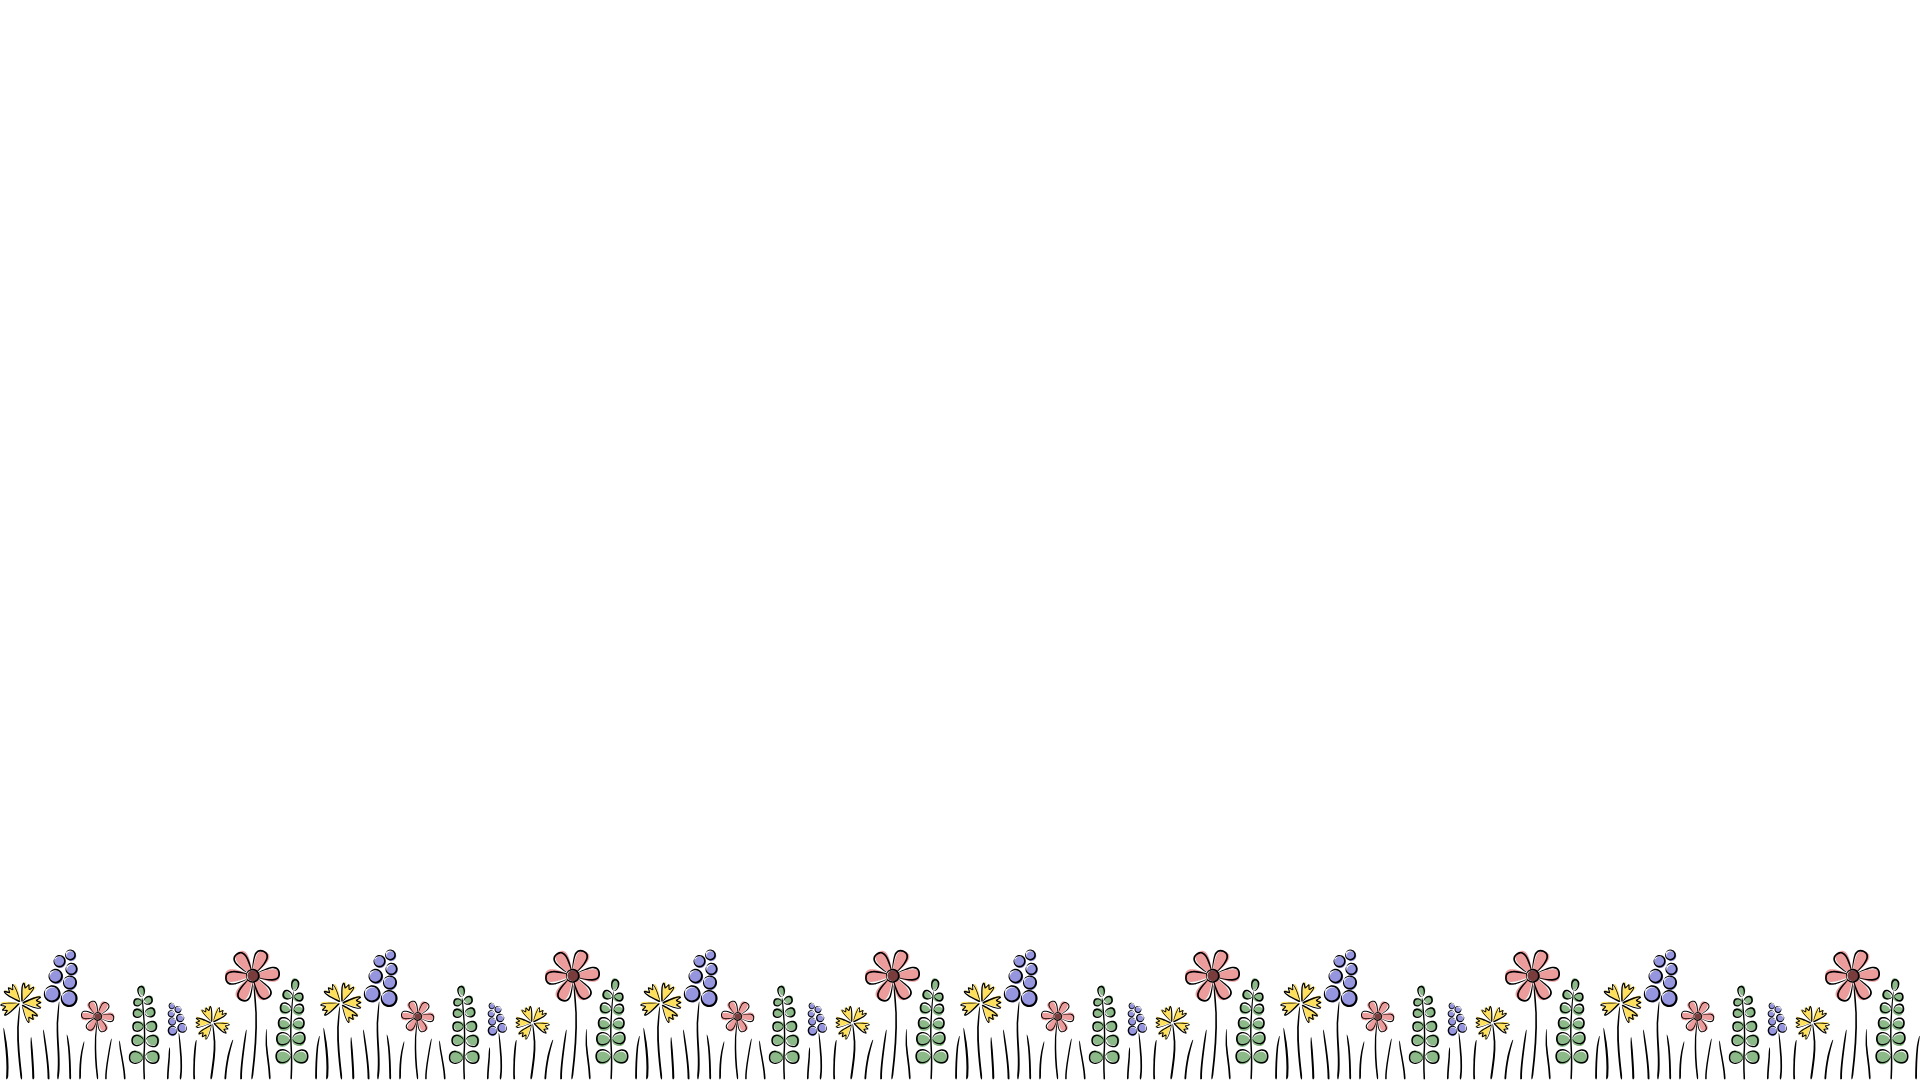
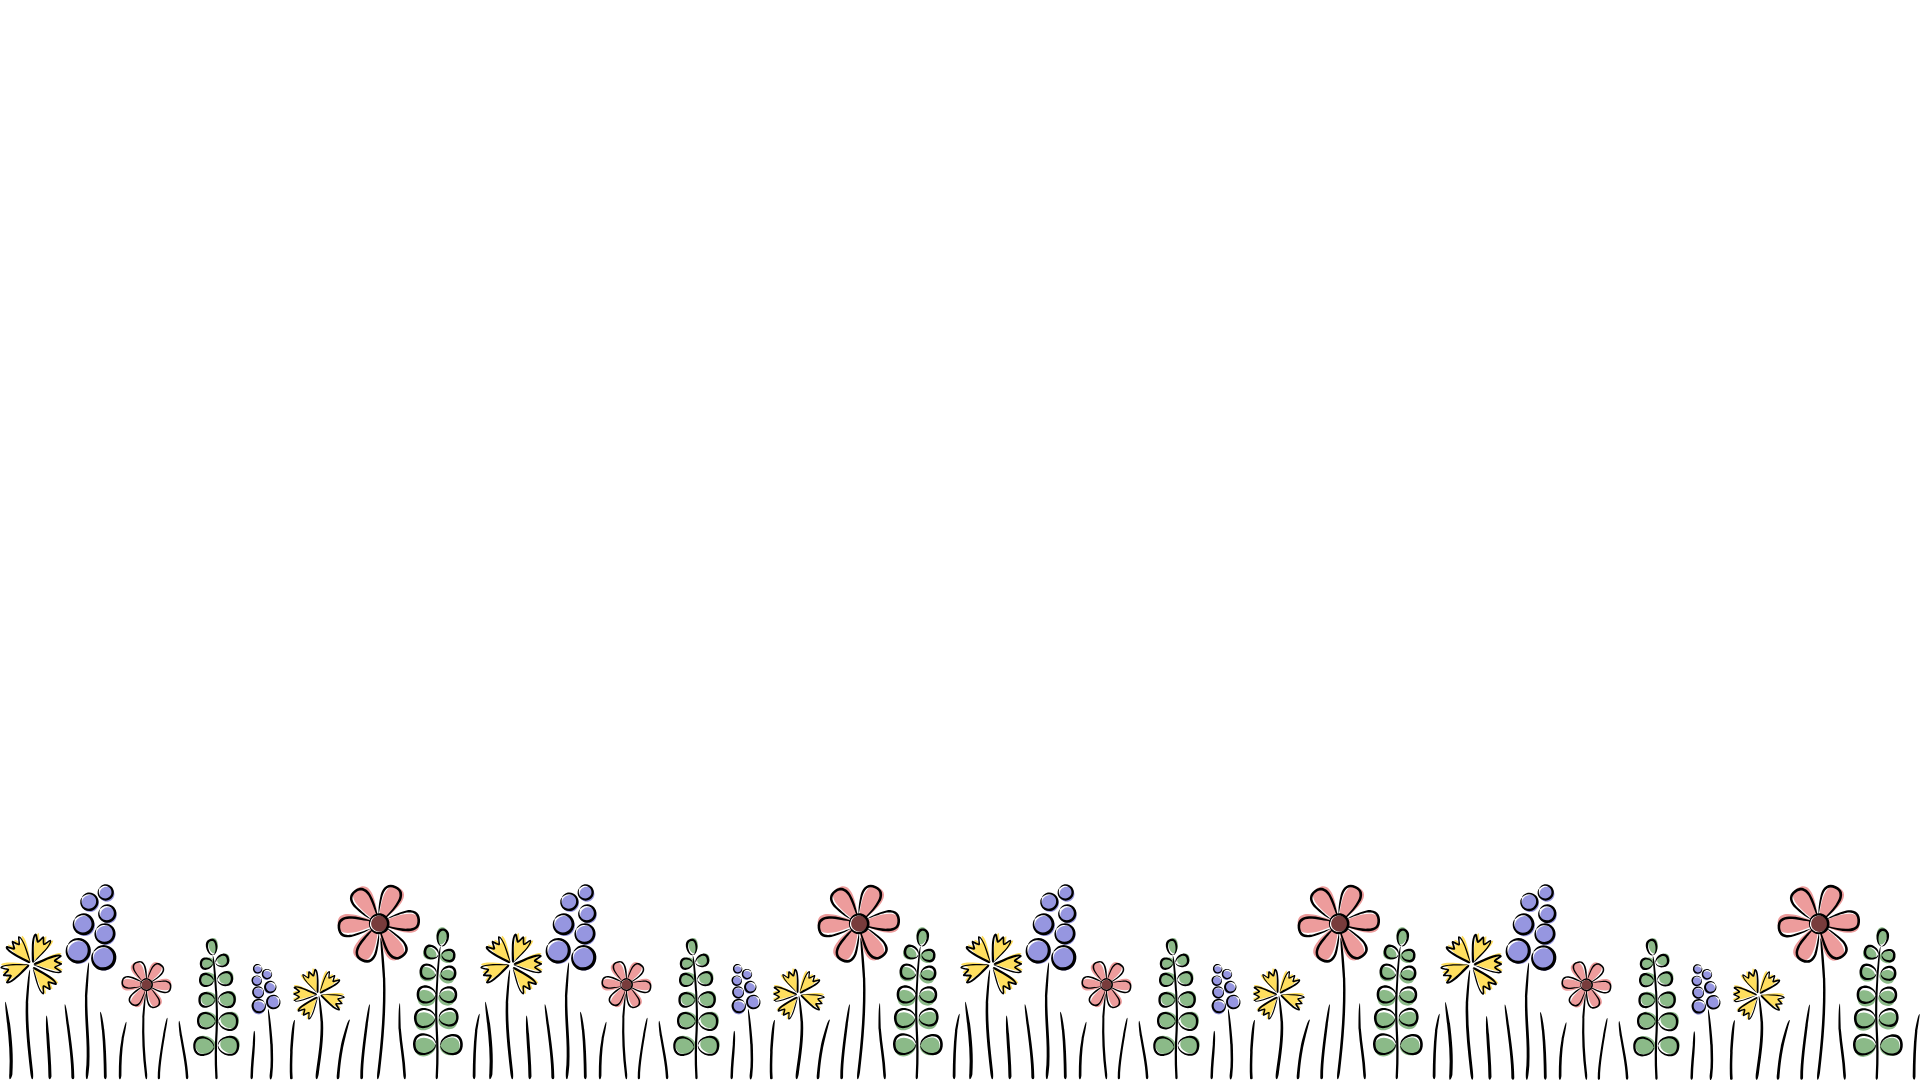
styling home + bloemen border + liquid structuur aanpassing

Changed region(s): [[0.0, 0.825, 1.0, 1.0]]

diff --git a/public/styles/style.css b/public/styles/style.css
@@ -1,10 +1,14 @@
 body { 
     --main-green:  #b1d8b7; 
     --main-beige: #f9f5ef;
+    --accent-beige: #fcfaf6;
     --accent-green:  #65856a; 
-    background-color: white;
     color-scheme:light dark;
+    margin: 0;
     padding: 1em;
+    min-height: 100vh;
+
+    background-color: var(--accent-beige);
 }
 
 
@@ -69,7 +73,6 @@ li{
     font-family: 'Open Sans',"Relieve", Arial, sans-serif;
     font-size: 1em;
     margin: .7em;
-    list-style: none;   
 }
 
 .list-item-home {
@@ -104,9 +107,10 @@ li{
     box-shadow: rgba(100, 100, 111, 0.2) 0px 7px 29px 0px;
     border: var(--main-green) solid 3px;
     border-radius: 20px;
-    background-image: url(../assets/Ontwerp_zonder_titel-removebg-preview.png);
+    background-image: url(../assets/bloemen-border-removebg-preview.png);
     background-repeat: no-repeat;
     background-size: contain;
+    background-position-y: bottom;
     color: black;
     text-decoration: none;
 }
@@ -118,4 +122,31 @@ li{
     background-color: var(--main-green);
     color: black;
     text-decoration: none;
+}
+
+/* MARK: view transition */
+@view-transition {
+    navigation: auto;
+}
+
+@keyframes animate-in-and-out {
+	entry 0%  {
+		opacity: 0; transform: translateY(100%);
+	}
+	entry 100%  {
+		opacity: 1; transform: translateY(0);
+	}
+
+	exit 0% {
+		opacity: 1; transform: translateY(0);
+	}
+	exit 100% {
+		opacity: 0; transform: translateY(-100%);
+	}
+}
+
+.notes{
+	animation: linear animate-in-and-out;
+	animation-timeline: view();
+    transition-duration: .5s;
 }

diff --git a/public/styles/home.css b/public/styles/home.css
@@ -9,12 +9,12 @@
     background-size: contain;
     /* filter: drop-shadow(0 0 0.75rem black); */
 
-    @media (width > 800px) {
+    @media (width > 500px) {
         font-size: 5em;
         transition: .5s;
     }
 
-    @media (width > 1200px) {
+    @media (width > 1100px) {
         font-size: 9em;
         transition: .5s;
     }
@@ -23,7 +23,7 @@
 
 .home-nav{
     justify-self: center;
-
+    list-style: none;
     a{
         color: black;
         text-decoration: none;
@@ -39,9 +39,9 @@
 
 }
 
-.home-main {
-    /* background-image: url(../assets/Ontwerp_zonder_titel-removebg-preview.png);
+.body-home {
+    background-image: url(../assets/Ontwerp_zonder_titel-removebg-preview.png);
     background-repeat: no-repeat;
-    background-size: contain; */
+    background-size: cover;
+    background-position-y: bottom;
 }
-
